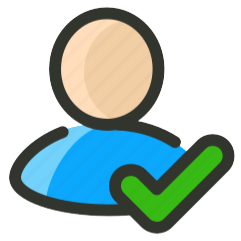
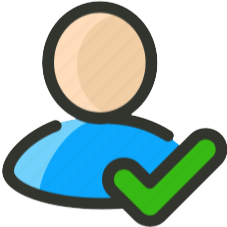
h

diff --git a/public/home.html b/public/home.html
@@ -35,7 +35,7 @@
             <div class="navbar-default">
             <nav class="navbar">
             <a class="navbar-header">
-                <img id="logo" src="img/partners/resolved.png">
+                <img id="logo" src="img/partners/login.png">
                 <div class="jina-div">
                     <input readonly id="jinaHolder" maxlength="17" value="Ach Logs">
                     <span id="jinaHolder2">
